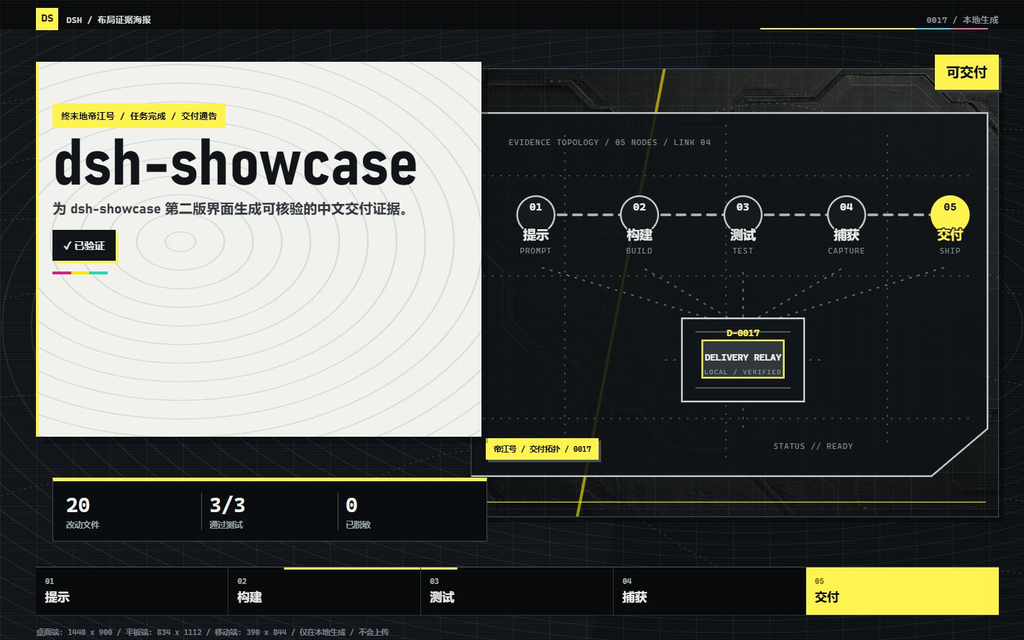
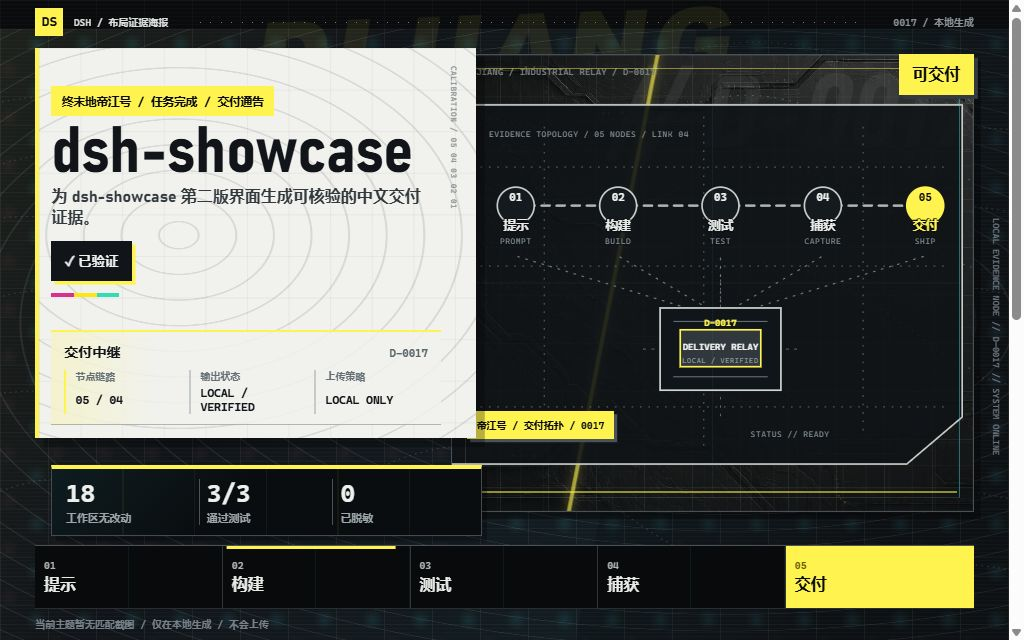
fix: align poster output and responsive previews

Changed region(s): [[0.0312, 0.0, 1.0, 1.0], [0.6875, 0.875, 0.7188, 0.9062], [0.5312, 0.4062, 0.5625, 0.4375]]

diff --git a/plugin/poster-html.js b/plugin/poster-html.js
@@ -849,7 +849,7 @@ const dijiangIndustrialOverrideCss = [
   ".metrics{z-index:9;left:5.1%;bottom:16.2%;width:min(42vw,39rem);color:#edf0ec;background:#0a0d0f;border:1px solid #434b50;border-top:.3rem solid var(--ef-signal);box-shadow:.32rem .32rem 0 rgba(0,0,0,.28)}.metrics small{color:#9ca5a9}.rail{z-index:10;left:3.5%;right:3.5%;bottom:4.8%;color:#e8ebe7;background:#080a0c;border-top:1px solid #4a5257;border-bottom:1px solid #282e32}.rail:before{content:'DSH // DELIVERY PIPELINE';position:absolute;right:.75rem;top:-1.2rem;color:#666f74;font:800 .54rem/1 'Cascadia Mono','Microsoft YaHei UI',monospace}.rail span{border-right-color:#30363a}.rail span:last-child{color:var(--ef-ink);background:var(--ef-signal)}.rail:after{background:var(--ef-signal)}.footer{left:3.5%;bottom:1.45%;color:#778086}",
   ".loader.loader--field .field-loader-topband{height:3.25rem;min-height:0;background:#080a0c;border-bottom:1px solid #434b50;clip-path:none}.loader.loader--field .field-loader-sheet{top:3.25rem;left:0;right:0;bottom:0;background-color:#0b0e10;background-image:repeating-radial-gradient(ellipse at 72% 46%,transparent 0 1.1rem,rgba(132,145,135,.14) 1.16rem 1.22rem,transparent 1.29rem 2.2rem),linear-gradient(rgba(255,255,255,.035) 1px,transparent 1px),linear-gradient(90deg,rgba(255,255,255,.035) 1px,transparent 1px);background-size:auto,3rem 3rem,3rem 3rem;border:0;box-shadow:none;clip-path:none}.loader.loader--field .field-loader-contours{opacity:.3}.loader.loader--field .field-loader-contours path{stroke:#7b858b;stroke-width:1.15;stroke-dasharray:2 7}",
   "@media(max-width:56.249rem){.dijiang-poster:after,.mast:after,.rail:before,.field-blueprint:before{display:none}.field-topband{height:4.25rem;min-height:4.25rem}.field-sheet{top:4.25rem;left:0;right:0;bottom:0;background-size:auto,2.25rem 2.25rem,2.25rem 2.25rem}.field-copy-panel{top:8.4%;left:.8rem;right:.8rem;width:auto;height:35%;background-size:auto,2.1rem 2.1rem,2.1rem 2.1rem;border-left-width:.22rem}.mast{top:1.2rem;left:1rem;right:1rem}.copy{top:12.5%;left:1.35rem;width:calc(100% - 2.7rem)}.title{font-size:clamp(2.8rem,12.5vw,4.2rem)}.stamp{top:5.2rem;right:1rem}.field-blueprint{top:45%;left:.8rem;right:.8rem;bottom:28%;width:auto}.field-blueprint__tag{left:.65rem;bottom:.65rem;box-shadow:.14rem .14rem 0 #4b5358}.field-safety-slab{top:54%;opacity:.34}.metrics{left:1rem;right:1rem;width:auto}.rail{left:1rem;right:1rem}.footer{left:1rem}.loader.loader--field .field-loader-topband{height:2.8rem}.loader.loader--field .field-loader-sheet{top:2.8rem}}",
-  "@media(max-height:48rem) and (min-width:56.25rem){.field-copy-panel{top:7.5%;height:61%}.copy{top:13.5%}.field-blueprint{top:8.5%}.field-blueprint__tag{bottom:clamp(4.5rem,9vh,6.5rem)}}",
+  "@media(max-height:48rem) and (min-width:56.25rem){.dijiang-poster{min-height:0}.field-copy-panel{top:7.5%;height:61%}.copy{top:13.5%}.field-blueprint{top:8.5%}.field-blueprint__tag{bottom:clamp(4.5rem,9vh,6.5rem)}}",
 ].join("");
 
 const dijiangCompactCss = [
@@ -871,6 +871,12 @@ const dijiangTopologyCss = [
   ".field-blueprint__svg .bp-stage circle{fill:#151a1e;stroke:#c7cdca;stroke-width:2}.field-blueprint__svg .bp-stage--five circle{fill:var(--ef-signal);stroke:var(--ef-signal)}.field-blueprint__svg .bp-stage__index,.field-blueprint__svg .bp-stage__label,.field-blueprint__svg .bp-stage__code,.field-blueprint__svg .bp-hub__code,.field-blueprint__svg .bp-hub__label,.field-blueprint__svg .bp-hub__meta,.field-blueprint__svg .bp-readout{text-anchor:middle;font-family:'Cascadia Mono','Microsoft YaHei UI',monospace}.field-blueprint__svg .bp-stage__index{fill:#f0f2ee;font-size:13px;font-weight:900}.field-blueprint__svg .bp-stage--five .bp-stage__index{fill:var(--ef-ink)}.field-blueprint__svg .bp-stage__label{fill:#e8ebe7;font-size:15px;font-weight:900}.field-blueprint__svg .bp-stage__code,.field-blueprint__svg .bp-readout{fill:#7f8a90;font-size:9px;letter-spacing:1px}.field-blueprint__svg .bp-stage--five .bp-stage__label{fill:var(--ef-signal)}",
   ".field-blueprint__svg .bp-stage__label,.field-blueprint__svg .bp-stage__code{paint-order:stroke fill;stroke:#0d1114;stroke-linejoin:round}.field-blueprint__svg .bp-stage__label{stroke-width:3px}.field-blueprint__svg .bp-stage__code{stroke-width:2px}.field-blueprint__svg .bp-hub{fill:#101519;stroke:#d1d7d3;stroke-width:2}.field-blueprint__svg .bp-hub__core{fill:#30383d;stroke:var(--ef-signal);stroke-width:2}.field-blueprint__svg .bp-hub__rail{fill:none;stroke:#7f8a90;stroke-width:1}.field-blueprint__svg .bp-hub__code{fill:var(--ef-signal);font-size:11px;font-weight:900}.field-blueprint__svg .bp-hub__label{fill:#f0f2ee;font-size:11px;font-weight:900}.field-blueprint__svg .bp-hub__meta{fill:#8e999e;font-size:8px;letter-spacing:1px}.field-blueprint__svg .bp-readout{text-anchor:start}.field-blueprint__svg .bp-readout--right{text-anchor:end}@keyframes dijiang-topology-flow{to{stroke-dashoffset:-144}}",
   "@media(max-width:56.249rem){.dijiang-poster{height:auto;min-height:max(100svh,54rem)}.field-blueprint{top:43.5%;bottom:24.5%}}@media(max-width:35rem){.field-blueprint__svg .bp-readout{display:none}}@media(prefers-reduced-motion:reduce){.field-blueprint__svg .bp-link{animation-duration:24s}}",
+].join("");
+
+const dijiangMaterialCss = [
+  ".dijiang-poster{background:radial-gradient(circle at 73% 41%,rgba(67,217,231,.075),transparent 22%),radial-gradient(circle at 14% 82%,rgba(244,106,140,.055),transparent 18%),linear-gradient(118deg,rgba(255,244,79,.055),transparent 34%),var(--ef-ink)}",
+  ".field-sheet{background-image:linear-gradient(118deg,rgba(255,244,79,.055),transparent 30%,rgba(67,217,231,.045) 66%,transparent 86%),radial-gradient(circle at 76% 31%,rgba(67,217,231,.1),transparent 22%),radial-gradient(circle at 18% 84%,rgba(244,106,140,.06),transparent 18%),repeating-radial-gradient(ellipse at 72% 48%,transparent 0 1.2rem,rgba(155,167,174,.13) 1.26rem 1.32rem,transparent 1.38rem 2.38rem),linear-gradient(rgba(255,255,255,.035) 1px,transparent 1px),linear-gradient(90deg,rgba(255,255,255,.035) 1px,transparent 1px);background-size:auto,auto,auto,auto,3rem 3rem,3rem 3rem}.field-sheet:before{content:'SYS-05  //  TOPOLOGY LIVE  //  LOCAL ONLY';position:absolute;z-index:2;top:7.5%;right:3.5%;width:36%;padding:.48rem 0 .36rem;color:#7f8b91;border-top:1px solid rgba(67,217,231,.42);border-bottom:1px solid rgba(255,244,79,.28);background:repeating-linear-gradient(90deg,rgba(67,217,231,.07) 0 1px,transparent 1px .55rem);font:800 clamp(.5rem,.62vw,.64rem)/1 'Cascadia Mono','Microsoft YaHei UI',monospace;letter-spacing:.08em;text-align:right;opacity:.82;animation:dijiang-signal-drift 11s ease-in-out infinite alternate;pointer-events:none}.field-copy-panel:after{content:'CALIBRATION  /  05  04  03  02  01';position:absolute;z-index:1;top:1.1rem;right:1.15rem;color:#7f888b;font:800 clamp(.48rem,.58vw,.6rem)/1 'Cascadia Mono','Microsoft YaHei UI',monospace;letter-spacing:.08em;writing-mode:vertical-rl;opacity:.82}.field-contours{opacity:.42}.field-safety-slab{background:linear-gradient(90deg,var(--ef-signal) 0 60%,#43d9e7 60% 82%,#f46a8c 82% 100%);opacity:.84;box-shadow:0 0 1.15rem rgba(255,244,79,.18)}.field-blueprint:after{content:'';position:absolute;z-index:7;inset:.8rem;border:1px solid rgba(174,182,179,.28);border-top-color:rgba(255,244,79,.78);border-right-color:rgba(67,217,231,.72);background:linear-gradient(90deg,transparent 0 49.8%,rgba(67,217,231,.1) 50%,transparent 50.2%),linear-gradient(transparent 0 49.8%,rgba(255,244,79,.08) 50%,transparent 50.2%);opacity:.72;animation:dijiang-hud-pulse 6s ease-in-out infinite;pointer-events:none}.field-blueprint__grid{opacity:.9}.field-readout{border-top:2px solid var(--ef-signal);background:linear-gradient(90deg,rgba(255,244,79,.2),transparent 28%),rgba(241,242,238,.82)}.metrics{background:linear-gradient(135deg,rgba(67,217,231,.08),transparent 42%),repeating-linear-gradient(90deg,transparent 0 4.4rem,rgba(255,244,79,.055) 4.4rem 4.48rem),#0a0d0f}.rail{background:repeating-linear-gradient(90deg,transparent 0 5.8rem,rgba(67,217,231,.08) 5.8rem 5.86rem),#080a0c}@keyframes dijiang-signal-drift{from{transform:translateX(-.35rem);opacity:.48}to{transform:translateX(.35rem);opacity:.92}}@keyframes dijiang-hud-pulse{0%,100%{opacity:.42}50%{opacity:.92}}@media(max-width:56.249rem){.field-sheet:before{top:6.3%;right:1rem;width:52%;font-size:.48rem}.field-copy-panel:after{top:.75rem;right:.7rem;font-size:.43rem}.field-blueprint:after{inset:.5rem;opacity:.56}}@media(prefers-reduced-motion:reduce){.field-sheet:before,.field-blueprint:after{animation:none;opacity:.62}}",
+  "@media(max-height:48rem) and (min-width:56.25rem){.dijiang-poster{min-height:0}}",
 ].join("");
 
 const dijiangLoaderMotionCss = [
@@ -938,7 +944,7 @@ function createDijiangPoster(data) {
     ? `.field-blueprint{background-image:linear-gradient(rgba(13,17,20,.36),rgba(13,17,20,.58)),url('${data.surfaceImage}');background-position:center;background-size:auto,cover}`
     : "";
   return [
-    '<!doctype html><html lang="', data.locale, '"><head><meta charset="UTF-8"><meta name="viewport" content="width=device-width,initial-scale=1"><title>', escapeHtml(text.title), '</title><style>', sharedCss, evidenceIntegrityCss, posterCss, dijiangCompactCss, surfaceCss, dijiangTopologyCss, dijiangLoaderCompactCss, manifestStateCss, dijiangReportContentCss, statusCss, '</style></head><body>', dijiangLoaderMarkup(text, data.stages, data.locale, data.projectName, status.key),
+    '<!doctype html><html lang="', data.locale, '"><head><meta charset="UTF-8"><meta name="viewport" content="width=device-width,initial-scale=1"><title>', escapeHtml(text.title), '</title><style>', sharedCss, evidenceIntegrityCss, posterCss, dijiangCompactCss, surfaceCss, dijiangTopologyCss, dijiangMaterialCss, dijiangLoaderCompactCss, manifestStateCss, dijiangReportContentCss, statusCss, '</style></head><body>', dijiangLoaderMarkup(text, data.stages, data.locale, data.projectName, status.key),
     '<article class="poster dijiang-poster" data-theme="frontier-signal" data-status="', status.key, '"><div class="field-topband"></div><div class="field-sheet"></div>', dijiangContoursMarkup("field-contours"),
     dijiangSlashedWordMarkup("field-topmark"), '<div class="field-safety-slab" aria-hidden="true"></div>', dijiangBlueprintMarkup(), '<div class="field-copy-panel" aria-hidden="true"></div>',
     '<div class="mast"><span>DSH / ', escapeHtml(text.title), '</span><span>0017 / ', escapeHtml(text.local), '</span></div>',

diff --git a/src/dijiang-hardening.ts b/src/dijiang-hardening.ts
@@ -20,7 +20,11 @@ export const dijiangHardeningCss = `
   --ef-muted: #828b91;
   --ef-paper: #f1f2ee;
   color: #eef0ec;
-  background: var(--ef-ink);
+  background:
+    radial-gradient(circle at 73% 41%, rgba(67, 217, 231, 0.075), transparent 22%),
+    radial-gradient(circle at 14% 82%, rgba(244, 106, 140, 0.055), transparent 18%),
+    linear-gradient(118deg, rgba(255, 244, 79, 0.055), transparent 34%),
+    var(--ef-ink);
   box-shadow: inset 0 0 0 0.16rem var(--ef-signal);
 }
 
@@ -73,12 +77,35 @@ export const dijiangHardeningCss = `
   inset: 4.5% 0 0;
   background-color: var(--ef-panel);
   background-image:
+    linear-gradient(118deg, rgba(255, 244, 79, 0.055), transparent 30%, rgba(67, 217, 231, 0.045) 66%, transparent 86%),
+    radial-gradient(circle at 76% 31%, rgba(67, 217, 231, 0.1), transparent 22%),
+    radial-gradient(circle at 18% 84%, rgba(244, 106, 140, 0.06), transparent 18%),
     repeating-radial-gradient(ellipse at 72% 48%, transparent 0 1.2rem, rgba(155, 167, 174, 0.13) 1.26rem 1.32rem, transparent 1.38rem 2.38rem),
     linear-gradient(rgba(255, 255, 255, 0.035) 1px, transparent 1px),
     linear-gradient(90deg, rgba(255, 255, 255, 0.035) 1px, transparent 1px);
   background-size: auto, 3rem 3rem, 3rem 3rem;
   border: 0;
   clip-path: none;
+}
+
+.field-sheet::before {
+  content: "SYS-05  //  TOPOLOGY LIVE  //  LOCAL ONLY";
+  position: absolute;
+  z-index: 2;
+  top: 7.5%;
+  right: 3.5%;
+  width: 36%;
+  padding: 0.48rem 0 0.36rem;
+  color: #7f8b91;
+  border-top: 1px solid rgba(67, 217, 231, 0.42);
+  border-bottom: 1px solid rgba(255, 244, 79, 0.28);
+  background: repeating-linear-gradient(90deg, rgba(67, 217, 231, 0.07) 0 1px, transparent 1px 0.55rem);
+  font: 800 clamp(0.5rem, 0.62vw, 0.64rem)/1 "Cascadia Mono", "Microsoft YaHei UI", monospace;
+  letter-spacing: 0.08em;
+  text-align: right;
+  opacity: 0.82;
+  animation: dijiang-signal-drift 11s ease-in-out infinite alternate;
+  pointer-events: none;
 }
 
 .field-sheet::after {
@@ -90,7 +117,7 @@ export const dijiangHardeningCss = `
 
 .field-contours {
   z-index: 3;
-  opacity: 0.32;
+  opacity: 0.42;
   mix-blend-mode: screen;
 }
 
@@ -136,6 +163,19 @@ export const dijiangHardeningCss = `
   border-left: 0.28rem solid var(--ef-signal);
   box-shadow: 0.55rem 0.55rem 0 rgba(0, 0, 0, 0.28);
   clip-path: none;
+}
+
+.field-copy-panel::after {
+  content: "CALIBRATION  /  05  04  03  02  01";
+  position: absolute;
+  z-index: 1;
+  top: 1.1rem;
+  right: 1.15rem;
+  color: #7f888b;
+  font: 800 clamp(0.48rem, 0.58vw, 0.6rem)/1 "Cascadia Mono", "Microsoft YaHei UI", monospace;
+  letter-spacing: 0.08em;
+  writing-mode: vertical-rl;
+  opacity: 0.82;
 }
 
 .mast {
@@ -204,8 +244,9 @@ export const dijiangHardeningCss = `
   top: 30%;
   width: 40%;
   height: 6.5%;
-  background: var(--ef-signal);
-  opacity: 0.88;
+  background: linear-gradient(90deg, var(--ef-signal) 0 60%, #43d9e7 60% 82%, #f46a8c 82% 100%);
+  opacity: 0.84;
+  box-shadow: 0 0 1.15rem rgba(255, 244, 79, 0.18);
 }
 
 .field-blueprint {
@@ -225,6 +266,22 @@ export const dijiangHardeningCss = `
   clip-path: none;
 }
 
+.field-blueprint::after {
+  content: "";
+  position: absolute;
+  z-index: 7;
+  inset: 0.8rem;
+  border: 1px solid rgba(174, 182, 179, 0.28);
+  border-top-color: rgba(255, 244, 79, 0.78);
+  border-right-color: rgba(67, 217, 231, 0.72);
+  background:
+    linear-gradient(90deg, transparent 0 49.8%, rgba(67, 217, 231, 0.1) 50%, transparent 50.2%),
+    linear-gradient(transparent 0 49.8%, rgba(255, 244, 79, 0.08) 50%, transparent 50.2%);
+  opacity: 0.72;
+  animation: dijiang-hud-pulse 6s ease-in-out infinite;
+  pointer-events: none;
+}
+
 .field-blueprint::before {
   content: "DIJIANG / INDUSTRIAL RELAY / D-0017";
   position: absolute;
@@ -242,7 +299,7 @@ export const dijiangHardeningCss = `
     repeating-linear-gradient(0deg, transparent 0 1.35rem, rgba(168, 179, 185, 0.045) 1.4rem 1.44rem),
     repeating-linear-gradient(90deg, transparent 0 1.35rem, rgba(168, 179, 185, 0.045) 1.4rem 1.44rem);
   background-size: 3rem 3rem, 3rem 3rem, auto, auto;
-  opacity: 0.8;
+  opacity: 0.9;
 }
 
 .field-blueprint__svg .bp-contour {
@@ -435,9 +492,11 @@ export const dijiangHardeningCss = `
   width: min(38vw, 38rem);
   padding: 0.72rem 0.8rem 0.58rem;
   color: #20272b;
-  border-top: 2px solid #111519;
+  border-top: 2px solid var(--ef-signal);
   border-bottom: 1px solid rgba(17, 21, 25, 0.28);
-  background: rgba(241, 242, 238, 0.72);
+  background:
+    linear-gradient(90deg, rgba(255, 244, 79, 0.2), transparent 28%),
+    rgba(241, 242, 238, 0.82);
 }
 
 .field-readout__head,
@@ -489,7 +548,10 @@ export const dijiangHardeningCss = `
   bottom: 16.2%;
   width: min(42vw, 39rem);
   color: #edf0ec;
-  background: #0a0d0f;
+  background:
+    linear-gradient(135deg, rgba(67, 217, 231, 0.08), transparent 42%),
+    repeating-linear-gradient(90deg, transparent 0 4.4rem, rgba(255, 244, 79, 0.055) 4.4rem 4.48rem),
+    #0a0d0f;
   border: 1px solid #434b50;
   border-top: 0.3rem solid var(--ef-signal);
   box-shadow: 0.32rem 0.32rem 0 rgba(0, 0, 0, 0.28);
@@ -503,7 +565,9 @@ export const dijiangHardeningCss = `
   right: 3.5%;
   bottom: 4.8%;
   color: #e8ebe7;
-  background: #080a0c;
+  background:
+    repeating-linear-gradient(90deg, transparent 0 5.8rem, rgba(67, 217, 231, 0.08) 5.8rem 5.86rem),
+    #080a0c;
   border-top: 1px solid #4a5257;
   border-bottom: 1px solid #282e32;
 }
@@ -521,6 +585,16 @@ export const dijiangHardeningCss = `
 .rail span:last-child { color: var(--ef-ink); background: var(--ef-signal); }
 .rail::after { background: var(--ef-signal); }
 .footer { left: 3.5%; bottom: 1.45%; color: #778086; }
+
+@keyframes dijiang-signal-drift {
+  from { transform: translateX(-0.35rem); opacity: 0.48; }
+  to { transform: translateX(0.35rem); opacity: 0.92; }
+}
+
+@keyframes dijiang-hud-pulse {
+  0%, 100% { opacity: 0.42; }
+  50% { opacity: 0.92; }
+}
 
 .loader.loader--field .field-loader-topband {
   height: 3.25rem;
@@ -569,6 +643,9 @@ export const dijiangHardeningCss = `
     border-left-width: 0.22rem;
   }
 
+  .field-sheet::before { top: 6.3%; right: 1rem; width: 52%; font-size: 0.48rem; }
+  .field-copy-panel::after { top: 0.75rem; right: 0.7rem; font-size: 0.43rem; }
+
   .mast { top: 1.2rem; left: 1rem; right: 1rem; }
   .copy { top: 12.5%; left: 1.35rem; width: calc(100% - 2.7rem); }
   .title { font-size: clamp(2.8rem, 12.5vw, 4.2rem); }
@@ -583,6 +660,7 @@ export const dijiangHardeningCss = `
   }
 
   .field-blueprint__tag { left: 0.65rem; bottom: 0.65rem; box-shadow: 0.14rem 0.14rem 0 #4b5358; }
+  .field-blueprint::after { inset: 0.5rem; opacity: 0.56; }
   .field-safety-slab { top: 54%; opacity: 0.34; }
   .metrics { left: 1rem; right: 1rem; width: auto; }
   .field-readout { top: 34%; left: 1.35rem; width: calc(100% - 2.7rem); padding: 0.52rem 0.62rem 0.45rem; }
@@ -598,10 +676,16 @@ export const dijiangHardeningCss = `
 }
 
 @media (max-height: 48rem) and (min-width: 56.25rem) {
+  .dijiang-poster { min-height: 0; }
   .field-copy-panel { top: 7.5%; height: 61%; }
   .copy { top: 13.5%; }
   .field-blueprint { top: 8.5%; }
   .field-blueprint__tag { bottom: clamp(4.5rem, 9vh, 6.5rem); }
+}
+
+@media (prefers-reduced-motion: reduce) {
+  .field-sheet::before,
+  .field-blueprint::after { animation: none; opacity: 0.62; }
 }
 
 /* Endfield-style single-focus startup sequence. */

diff --git a/tests/poster-enhancements.test.ts b/tests/poster-enhancements.test.ts
@@ -69,6 +69,7 @@ describe("poster material and empty-state enhancements", () => {
     expect(dijiang).toContain("dijiang-instrument-core-spin");
     expect(dijiang).toContain("background:#0b0f0d");
     expect(dijiang).toContain("@media(prefers-reduced-motion:reduce)");
+    expect(dijiang).toContain("@media(max-height:48rem) and (min-width:56.25rem){.dijiang-poster{min-height:0}");
     expect(dijiang).not.toContain(".loader.loader--fish .field-loader-instrument");
     expect(fish).not.toContain("field-loader-instrument");
     expect(fish).not.toContain("dijiang-loader-sweep-rotate");

diff --git a/tests/motion.test.ts b/tests/motion.test.ts
@@ -61,6 +61,7 @@ describe("persistent theme motion", () => {
     expect(hardening).toContain("dijiang-reference-reduced-exit");
     expect(hardening).toContain("dijiang-progress-head");
     expect(hardening).toContain("dijiang-instrument-core-spin");
+    expect(hardening).toContain(".dijiang-poster { min-height: 0; }");
     expect(hardening).toContain("height: clamp(0.48rem, 0.74vw, 0.76rem)");
     expect(hardening).toContain("01   EVIDENCE / CONNECTED");
     expect(hardening).toContain("DSH DELIVERY SYSTEM");

diff --git a/tests/layout-summary.test.ts b/tests/layout-summary.test.ts
@@ -580,7 +580,7 @@ describe("generateLayoutSummary", () => {
     expect(poster).toContain("...");
     // The complete two-theme report includes route and manifest evidence in
     // addition to the bounded project copy.
-    expect(poster.length).toBeLessThan(105_000);
+    expect(poster.length).toBeLessThan(110_000);
   });
 
   it("rejects unsupported locales", async () => {

diff --git a/README.zh-CN.md b/README.zh-CN.md
@@ -1,8 +1,17 @@
 # dsh-showcase 中文说明
 
-主 README 已经使用简体中文，并包含安装、跨项目使用、边界、安全和发布信息：
+`dsh-showcase` 是一个本地优先的 DSH 插件。它在任意目标项目中读取 Git 改动、测试回执和可选的响应式截图，生成中文 Markdown 摘要与自包含 HTML 交付海报。
 
-请阅读 [README.md](README.md)。
+完整的功能、安装、三步使用流程、截图规则、边界条件和主题预览都在主 README 中：
+
+[打开 README.md](README.md)
+
+本项目提供两套主题：
+
+- **终末地帝江号**：机械工业、密集等高线、科技仪表和黄黑校准色；
+- **蓝色大肥鱼**：浅蓝水面、钴蓝强调、角色主视觉和流动轨迹。
+
+主题只在 DSH 插件设置里选择，目标项目不需要增加 `theme` 字段。
 
 维护与发布相关文档：
 
